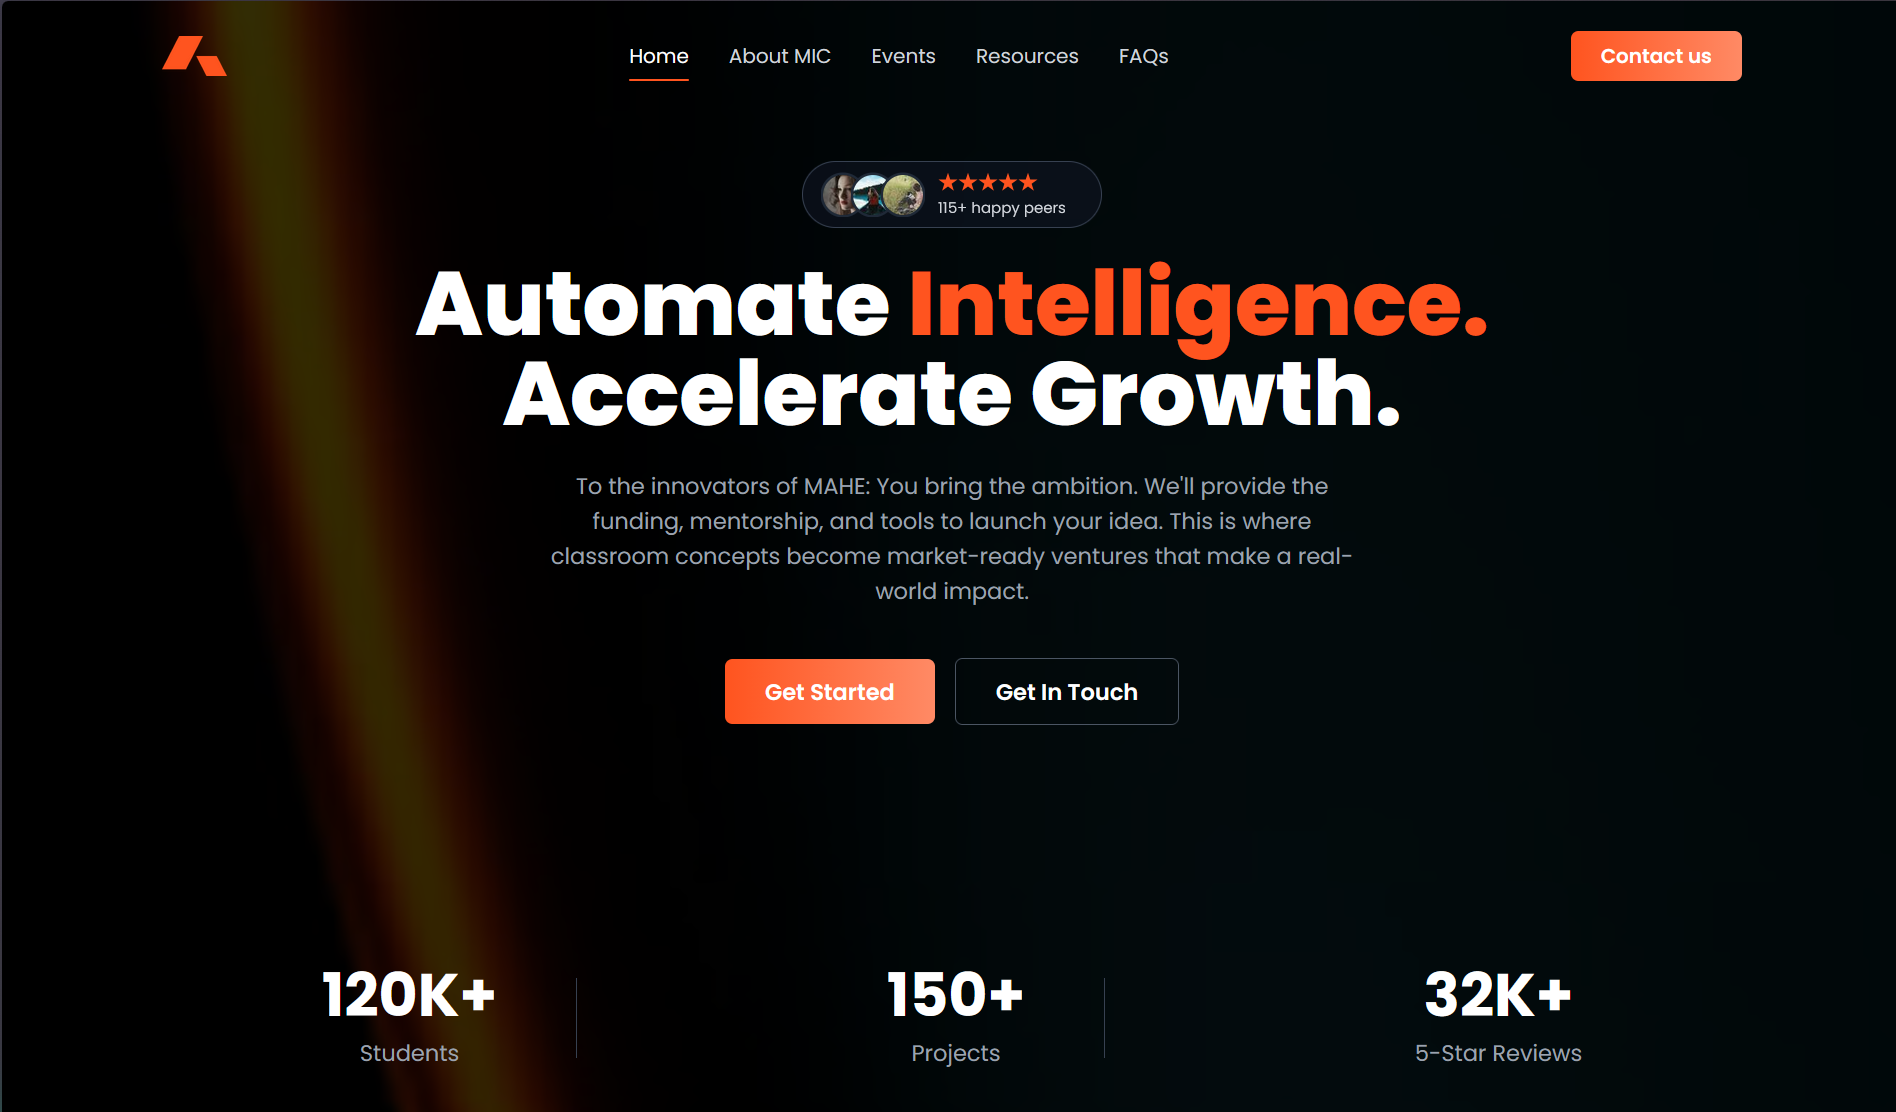
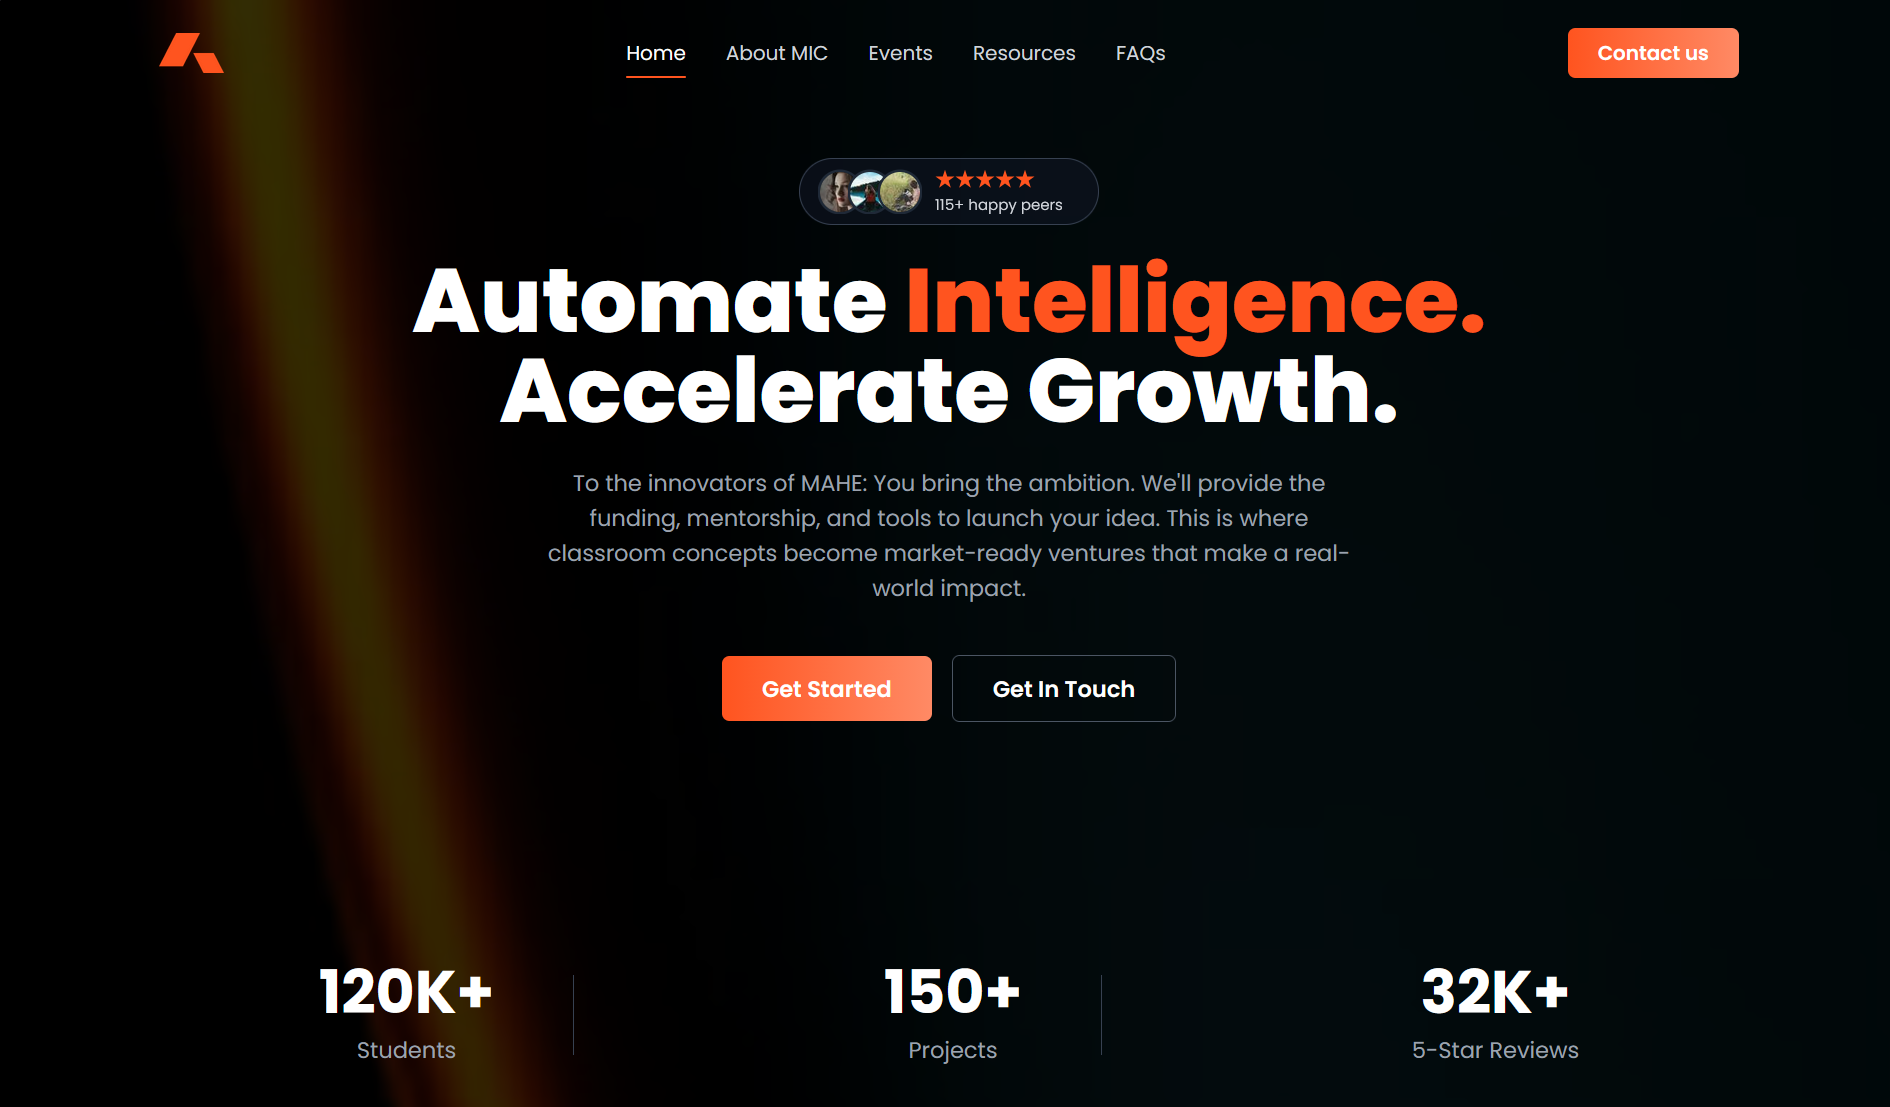
modified README.md and tweaked public folder

diff --git a/App.tsx b/App.tsx
@@ -24,12 +24,8 @@ function App() {
   return (
     <div className="relative bg-black text-white overflow-hidden relative">
       { isLoading && <Loader /> }
-      {/* Background elements */}
-      <div className="absolute inset-0 z-0 opacity-20" style={{ backgroundImage: `url(${'/axiom_bg2.jpg'})`, backgroundSize: 'cover' }}></div>
-      {/* <img src='/axiom_bg2.png' alt="background glow top" className="absolute -top-1/2 -right-1/4 w-full h-auto z-0 opacity-50 mix-blend-screen" />
-      <img src="https://i.imgur.com/9v1M618.png" alt="background wave bottom" className="absolute -bottom-1/3 left-0 w-full h-auto z-0 opacity-40 mix-blend-screen" /> */}
-
-
+      
+      <div className="absolute inset-0 z-0 opacity-20" style={{ backgroundImage: `url(${'/axiom_bg.jpg'})`, backgroundSize: 'cover' }}></div>
       <div className="relative z-10 px-6">
         <Header onContactClick={() => setIsContactModalOpen(true)} />
         <main>

diff --git a/README.md b/README.md
@@ -106,17 +106,4 @@ emailjs.sendForm(
 
 ---
 
-## 📜 License
-
-Specify your license here (e.g., MIT, Apache 2.0, etc.)
-
----
-
-## 🙏 Credits
-
-- Developed by [Sourish-19](https://github.com/Sourish-19)
-- Inspired by MAHE Innovation Centre
-
----
-
 Feel free to contribute or open issues for feature requests or bug reports!
